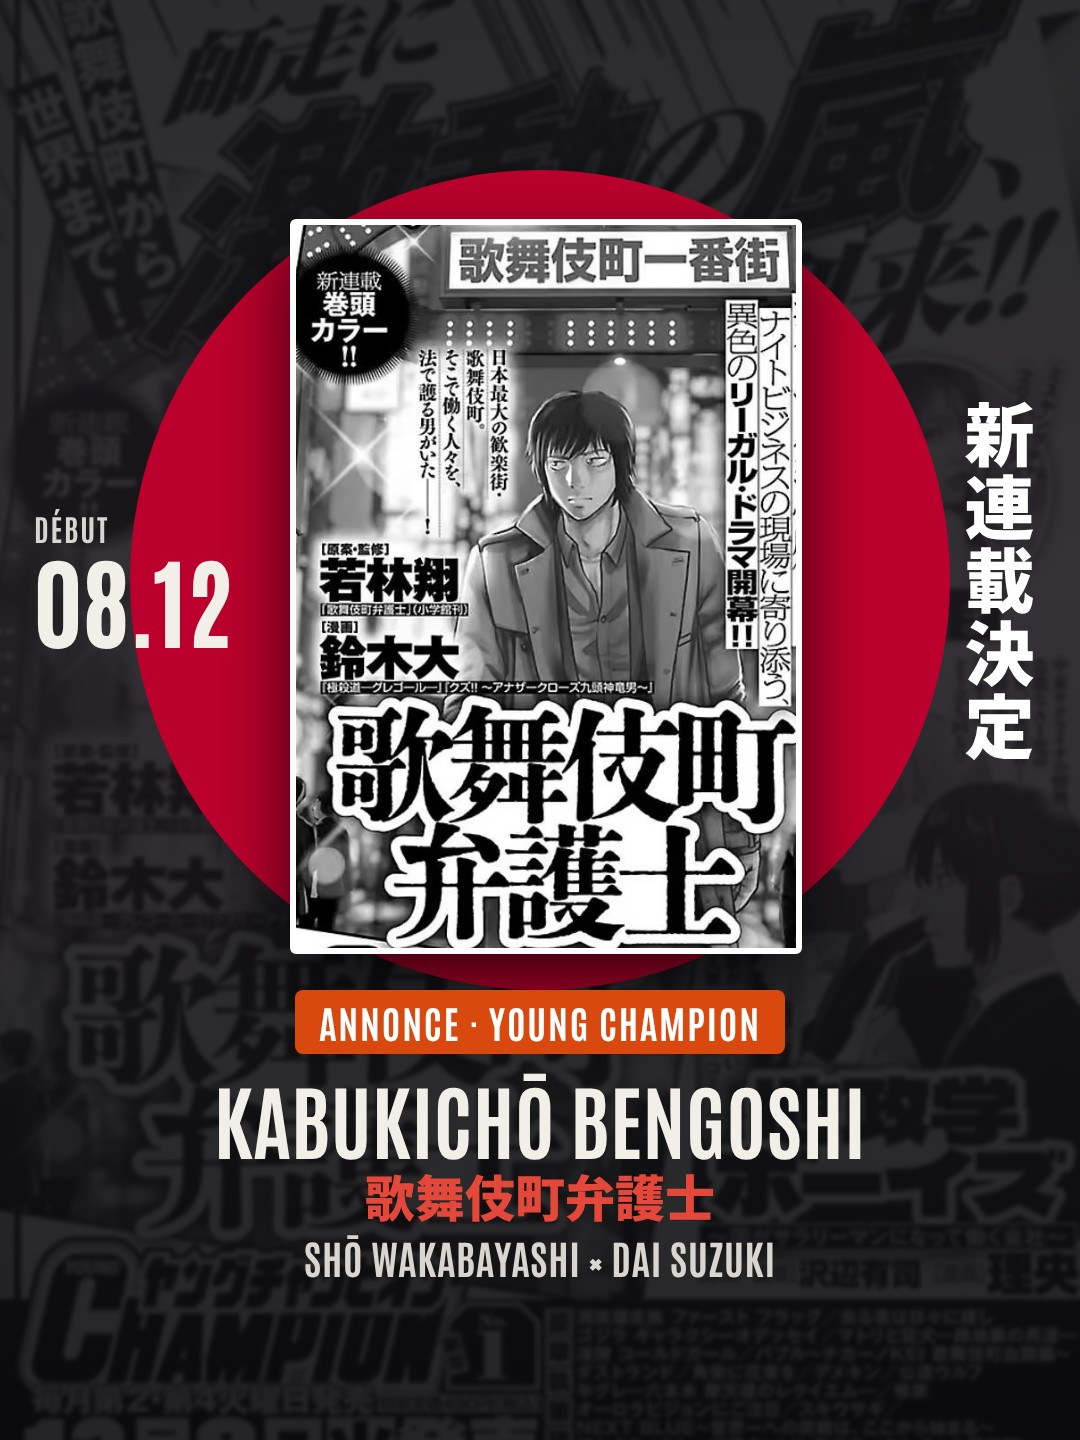
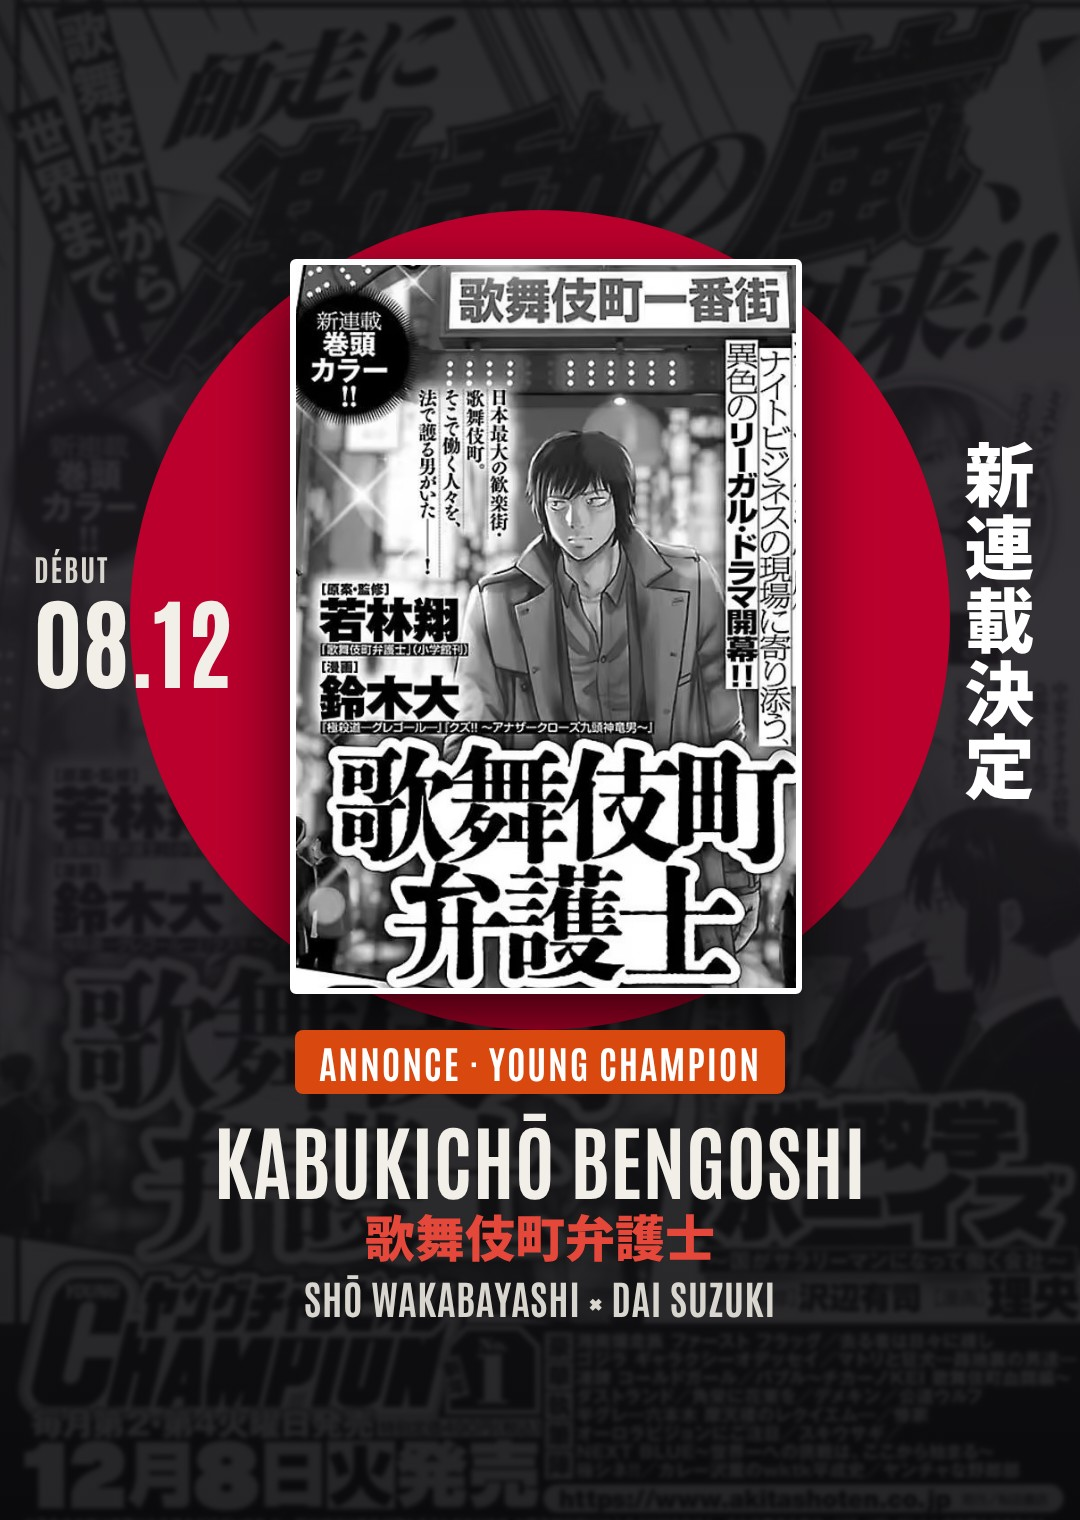
Stories : Kabukichō fond jusqu'au trait jaune (paramètre h du modèle Annonce), Bōryoku kanji remonté (ktop)
Claude-Session: https://claude.ai/code/session_01ShgbxL6GpEPzbudUpDfTjj

diff --git a/modeles/annonce/index.html b/modeles/annonce/index.html
@@ -13,6 +13,7 @@
        auteurs : « Shō Wakabayashi × Dai Suzuki » · mag : magazine (« Young Champion »)
        jour    : date courte à gauche du soleil (« 08.12 ») · quand : date en clair pour le lien (« 8 décembre »)
        kanji   : texte vertical à droite (défaut 新連載決定, « nouvelle série confirmée »)
+       h       : hauteur totale pour la story (défaut 1440 ; 1520 = le fond descend jusqu'au trait jaune)
      Rendu : node render.js (Playwright) → reseaux.jpg et lien.jpg. -->
 <style>
 @font-face{font-family:A;src:url(/fonts/Antonio.ttf) format("truetype");font-weight:100 700}
@@ -73,6 +74,9 @@ html,body{margin:0;background:#333}
   document.getElementById("lq").innerHTML = "Début le <b>" + g("quand").replace(/[&<>]/g, "") + "</b>";
   // Titre long : réduit pour tenir sur une ligne.
   [["rt", 1000], ["lt", 560]].forEach(function (a) { var e = document.getElementById(a[0]), fs = parseFloat(getComputedStyle(e).fontSize); e.style.whiteSpace = "nowrap"; e.style.display = "inline-block"; e.style.alignSelf = "flex-start"; while (e.offsetWidth > a[1] && fs > 40) { fs -= 2; e.style.fontSize = fs + "px"; } e.style.display = "block"; e.style.alignSelf = ""; });
+  // Version story : hauteur totale « h » (> 1440) ; le fond noir et blanc descend jusqu'en bas, le contenu descend de la moitié de l'écart.
+  var H = +g("h"); if (H > 1440) { var r = document.getElementById("r"), d = (H - 1440) / 2; r.style.height = H + "px";
+    r.querySelectorAll(".sun,.pg,.vt,.dl,.mid").forEach(function (el) { el.style.top = (parseFloat(getComputedStyle(el).top) + d) + "px"; }); }
   var im = new Image(); im.onload = function () { document.body.dataset.ok = 1; }; im.src = v;
 })();
 </script>

diff --git a/modeles/nouvelle-serie/index.html b/modeles/nouvelle-serie/index.html
@@ -60,6 +60,8 @@ html,body{margin:0;background:#333}
   document.getElementById("ls").innerHTML = tiret(g("sous"));
   if (g("kanji")) document.getElementById("kanji").textContent = g("kanji");
   if (g("pastille")) document.querySelectorAll(".pill").forEach(function (e) { e.style.background = g("pastille"); });
+  // ktop : position du grand kanji (défaut 80 ; plus haut pour la story, où le logo du haut disparaît).
+  if (g("ktop")) document.getElementById("kanji").style.top = g("ktop") + "px";
   if (g("kcouleur")) document.getElementById("kanji").style.color = g("kcouleur");
   document.getElementById("rbg").style.backgroundImage = "url('" + g("fond") + "')";
   document.getElementById("lbg").style.backgroundImage = "url('" + (g("fondLien") || g("fond")) + "')";
